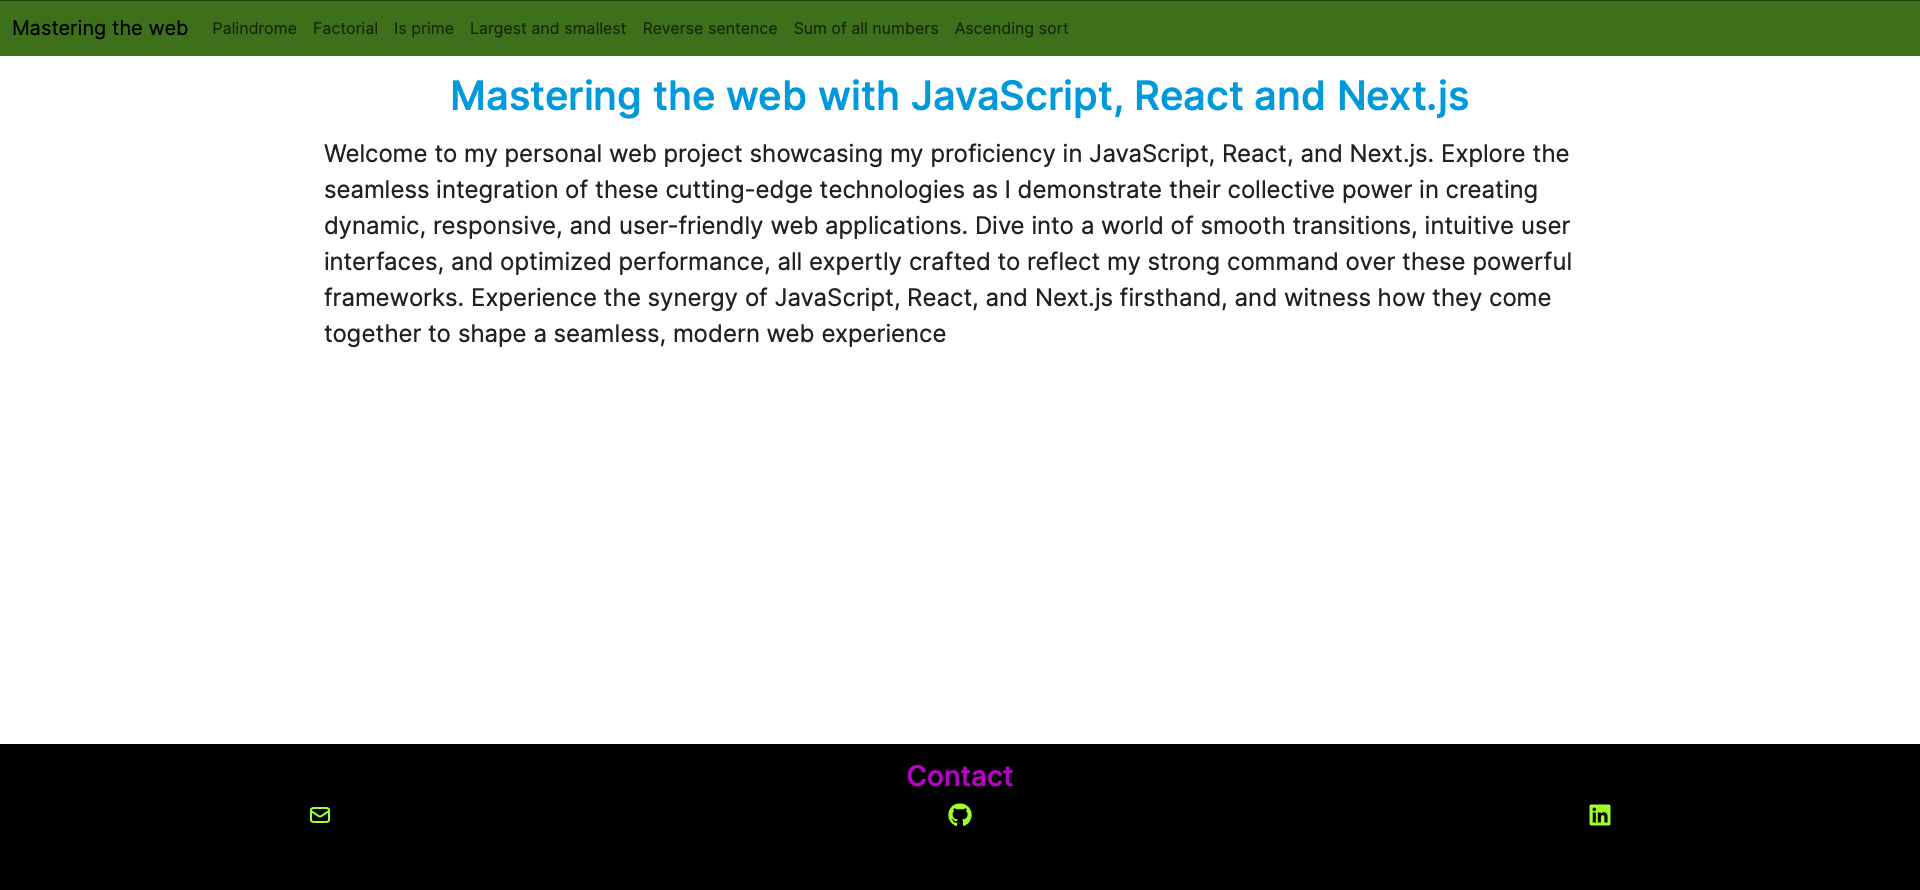
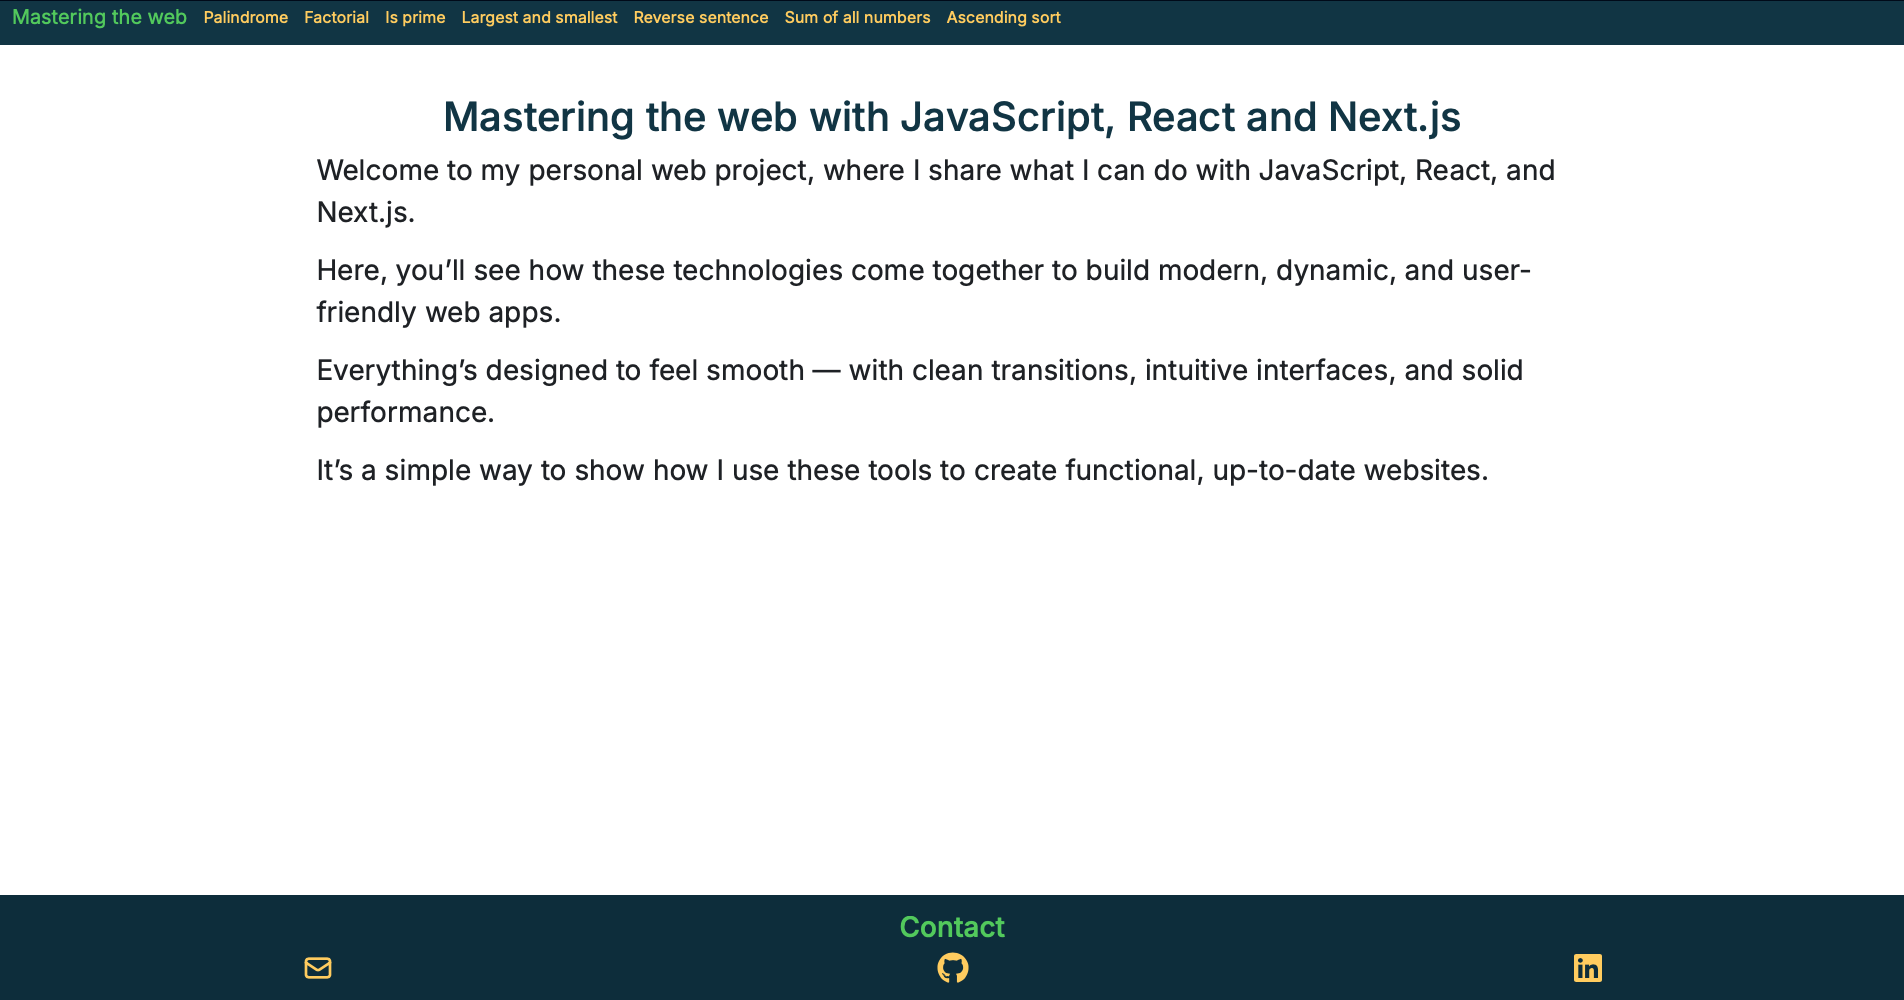
Se corrige el navbar y se cambia la foto de la pagina de JS

diff --git a/components/Navbar.jsx b/components/Navbar.jsx
@@ -95,30 +95,36 @@ const Navbar = () => {
                 >
                   <li className={`nav-item `}>
                     <Link
-                      className={`${classes.link}  text-decoration-none`}
+                      className="text-decoration-none"
                       href="https://www.github.com/ErnestoGarSa"
                       target="_blank"
                     >
-                      <p className=" text-light fs-3 text-center">GitHub</p>
+                      <p className={`${classes.link}  fs-3 text-center`}>
+                        GitHub
+                      </p>
                     </Link>
                   </li>
                   <li className="nav-item">
                     <Link
-                      className={`${classes.link} text-decoration-none`}
+                      className="text-decoration-none"
                       href="https://www.linkedin.com/in/ErnestoGarSa"
                       target="_blank"
                     >
-                      <p className=" text-light fs-3 text-center">LinkedIn</p>
+                      <p className={`${classes.link}  fs-3 text-center`}>
+                        LinkedIn
+                      </p>
                     </Link>
                   </li>
                   <li className="nav-item dropdown">
                     <Link
-                      className={`${classes.link} text-decoration-none`}
+                      className="text-decoration-none"
                       href={`mailto:${emailAddress}`}
                       target="_blank"
                       rel="noopener noreferrer"
                     >
-                      <p className=" text-light fs-3 text-center">Correo</p>
+                      <p className={`${classes.link}  fs-3 text-center`}>
+                        Correo
+                      </p>
                     </Link>
                   </li>
                 </ul>
@@ -133,31 +139,25 @@ const Navbar = () => {
             }`}
           >
             <li className="mt-md-4 ">
-              <Link
-                className={`${classes.link}`}
-                href="https://www.github.com/ErnestoGarSa"
-                target="_blank"
-              >
-                <FaGithub className={`${classes.icon}`} />
+              <Link href="https://www.github.com/ErnestoGarSa" target="_blank">
+                <FaGithub className={`${classes.icon} ${classes.link}`} />
               </Link>
             </li>
             <li className="mt-md-4">
               <Link
-                className={`${classes.link}`}
                 href="https://www.linkedin.com/in/ErnestoGarSa"
                 target="_blank"
               >
-                <FaLinkedin className={`${classes.icon}`} />
+                <FaLinkedin className={`${classes.icon} ${classes.link}`} />
               </Link>
             </li>
             <li className="mt-md-4">
               <Link
-                className={`${classes.link}`}
                 href={`mailto:${emailAddress}`}
                 target="_blank"
                 rel="noopener noreferrer"
               >
-                <HiOutlineMail className={`${classes.icon}`} />
+                <HiOutlineMail className={`${classes.icon} ${classes.link}`} />
               </Link>
             </li>
           </ul>

diff --git a/components/Navbar.module.css b/components/Navbar.module.css
@@ -19,6 +19,10 @@
   color: rgb(131, 204, 55);
 }
 
+.link {
+  color: white;
+}
+
 .link:hover {
   color: rgb(131, 204, 55);
 }
